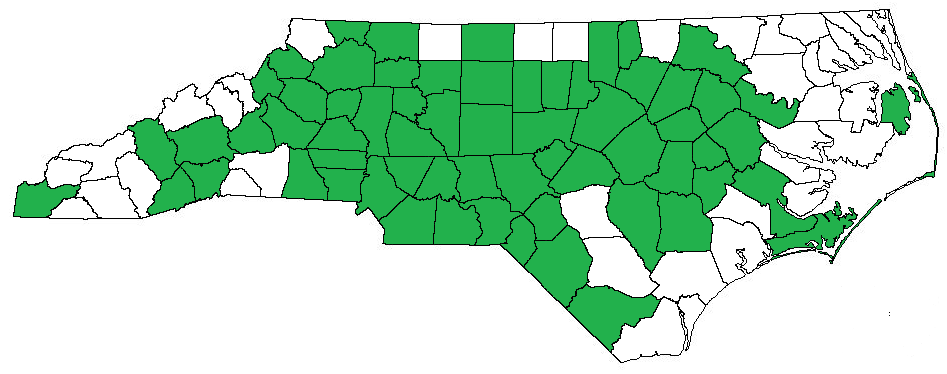
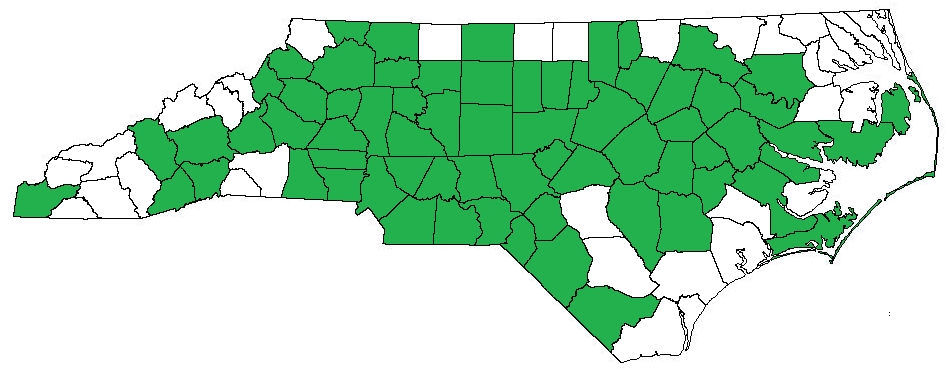
bbq trip 12/18/22

Changed region(s): [[0.7962, 0.3235, 0.9493, 0.5], [0.7656, 0.1471, 0.8574, 0.2941]]

diff --git a/bbq/index.html b/bbq/index.html
@@ -58,10 +58,10 @@
 <br>
 <center>
 	<h2>Current County Counter</h2>
-	<h3><span style="color:red">64</span> / 100</h3>
-	<h3>87 different in-state BBQ joints</h3>
+	<h3><span style="color:red">67</span> / 100</h3>
+	<h3>90 different in-state BBQ joints</h3>
 	<h3>6 annual BBQ events</h3>
-	<p>(last updated 12/1/2022)</p>
+	<p>(last updated 12/18/2022)</p>
 </center>
 <br>
 
@@ -89,6 +89,16 @@
 <p><b>Avery County</b></p>
 <ul>
 	<li>Old Hampton Store &amp Barbeque - Linville - 6/25/2022 - <a href="bbq-pics.html#Hampton">pictures</a></li>
+</ul>
+<br>
+<p><b>Beaufort County</b></p>
+<ul>
+	<li>Old Town Country Kitchen (The Grill) - Bath - 12/18/2022 - <a href="bbq-pics.html#OldTown">pictures</a></li>
+</ul>
+<br>
+<p><b>Bertie County</b></p>
+<ul>
+	<li>Bunn's Barbecue - Windsor - 12/17/2022 - <a href="bbq-pics.html#Bunns">pictures</a></li>
 </ul>
 <br>
 <p><b>Buncombe County</b></p>
@@ -243,6 +253,11 @@
 <p><b>Hoke County</b></p>
 <ul>
 	<li>Virgil's Drive-In - Raeford - 8/28/2022 - <a href="bbq-pics.html#Virgils">pictures</a></li>
+</ul>
+<br>
+<p><b>Hyde County</b></p>
+<ul>
+	<li>Martelle's Feed House - Englehard - 12/17/2022 - <i><span class="ncbsbbq">True 'Cue NC</span></i> - <a href="bbq-pics.html#Martelle">pictures</a></li>
 </ul>
 <br>
 <p><b>Iredell County</b></p>
@@ -553,6 +568,9 @@
 
 <p>I took a brief lull from 'cue for most of September, but jumped right back into the fire in October, going to two events in the second weekend of the month (I also had some good South Carolina 'cue from the Greenville location of Henry's Smokehouse, which had some solid pork.  The next weekend, I really got things cooking with a stop at Kinghtdale's Oak and Smoke festival, a bluegrass event featuring meat from Redneck BBQ Lab and beer from Oak City Brewing Company.  The following day, we went to a similar event, a public celebration of Tar Banks Brewing's 5th Anniversary.  The meat was catered by Mr. Curley's Que Crew by Andy and Tricia Harrison, a local barbeque team which competes for state championships, and Carolina Ocean Drive radio was playing selections of beach music from live on site.  Tar Banks also unveiled two new beers, a farmhouse ale called Ouverture, and a Scottish Ale called Boat On the Water.</p>
 
+<p>On the weekend before Christmas, I did my last big barbecue bananza of 2022.  Having started the year with a mission of consuming an ungodly proportion of pork, it only felt right to end it that way, too.  I started the weekend off with a visit to Rocky Mount's <a href="other-pics.html#BBQPark">Barbecue Park</a>, the historic home of Bob Melton's BBQ from its opening in 1920 until it was destroyed by Hurricane Floyd in 1999.  There, I got some good views of the Tar River, as well as a good lesson on the development of pulled pork in the state, and especially the impactful role of Rocky Mount.  Unfortunately, all of the city's historic pork pallaces have since closed.  Afterwards, I christened the day with a plate of Bunn's Barbecue -- a venerated hut which is certainly in the running for the most popular electric-cooked 'cue.  Randy Russell, current co-owner, graciously let me in and fed me despite arriving a half-an-hour before opening thanks to some malfeasance on the behalf of Google.  From there, I stopped in at the Somerset Place and Pettigrew State Park, as well as the Alligator National Wildlife Refuge, where I managed to spot a small bear family, as well as several birds.  Sandwiched between those stops was a futile attempt to get some 'cue in Tyrell County for lunch -- sadly, the only two places serving 'cue in the county that I knew of were unexpectedly closed.  Instead, I snacked some in Manteo before getting dinner at Martelle's Feed House in Englehard.</p>
+
+<p>After camping for the night at the Gull Rock Game Land, I woke up early to catch the sunrise over Lake Mattamuskeet; set up at observation point located near the middle of the lake just off NC 94, I shivered through the strong winds and dark for nearly 2 hours before backtracking slightly to the Mattamuskeet Wildlife Refuge, where I talked extensively with Greg, a very friendly volunteer at the visitor's center, before a short foray into one of the park's scenic drives.  At one point, I parked and exited my car to take a picture, and heard a hissing noise coming from one of my tires.  At that time, I high-tailed it back to the visitor's center, where I determined the cut only let air out when the cut was along the road.  Reckoning that it was a slow week and that it would be better to change a tire on the pavement than the muddy gravel roads which dotted the park, I hiked around some before getting back on the road.  This proved rather foolhardy: somewhere between NC 94 and Swanquarter (right about <a href="https://www.google.com/maps/place/35%C2%B025'59.6%22N+76%C2%B017'49.6%22W/@35.4332336,-76.2992933,17z/data=!3m1!4b1!4m5!3m4!1s0x0:0x564f45feace1b9bd!8m2!3d35.4332336!4d-76.2971046">here</a>, to be precise), I heard that telltale flat-tire-whine.  My first time changing a tire on the side of the road (or, more accurately, <a href="https://www.google.com/maps/@35.4328943,-76.2978624,3a,75y,256.14h,72.93t/data=!3m6!1e1!3m4!1sI-IkGm9LIwp-zykqH_KbfA!2e0!7i16384!8i8192">in the road</a>, thanks to the <i>very</i> slim shoulder) was an exciting one: it took nearly an hour of struggling thanks to a shorn bolt, meaning I spent the rest of the trip driving one lug nut short.  To make up for the nut-busting work, I treated myself to a slice of chocolate cake at Bath's Old Town Country Kitchen.  After a lengthy hike at Goose Creek State Park, I called it a trip and limped back on to Raleigh.</p>
 
 <center>- - - - - - - - - - -</center>
 

diff --git a/bbq/bbq-pics.html b/bbq/bbq-pics.html
@@ -113,6 +113,61 @@
 	src="https://www.youtube.com/embed/ByiADNCPhyY">
 </iframe></center>
 
+<br>
+<p><b>Beaufort County</b></p>
+<p>Old Town Country Kitchen (The Grill) - Bath</p>
+<p><a id="OldTown"></p>
+<center><img id="image193" img-src="https://s3.us-east-1.wasabisys.com/cwclaib-website/NC-State-Page/bbq/Old Town Country Kitchen - Bath/20221218_130525.jpg" width="800"></img></center>
+<center><button type="button"
+        onclick="show( image193, this )" id="btnID">
+        Show Image
+</button></center>
+<center><img id="image190" img-src="https://s3.us-east-1.wasabisys.com/cwclaib-website/NC-State-Page/bbq/Old Town Country Kitchen - Bath/20221218_122704.jpg" width="800"></img></center>
+<center><button type="button"
+        onclick="show( image190, this )" id="btnID">
+        Show Image
+</button></center>
+<center><img id="image191" img-src="https://s3.us-east-1.wasabisys.com/cwclaib-website/NC-State-Page/bbq/Old Town Country Kitchen - Bath/20221218_124139.jpg" width="800"></img></center>
+<center><button type="button"
+        onclick="show( image191, this )" id="btnID">
+        Show Image
+</button></center>
+<center><img id="image192" img-src="https://s3.us-east-1.wasabisys.com/cwclaib-website/NC-State-Page/bbq/Old Town Country Kitchen - Bath/20221218_125656.jpg" width="800"></img></center>
+<center><button type="button"
+        onclick="show( image192, this )" id="btnID">
+        Show Image
+</button></center>
+
+<br>
+<p><b>Bertie County</b></p>
+<p>Bunn's Barbecue - Windsor</p>
+<p><a id="Bunns"></p>
+<center><img id="image194" img-src="https://s3.us-east-1.wasabisys.com/cwclaib-website/NC-State-Page/bbq/Bunns, Windsor/20221217_091135.jpg" width="800"></img></center>
+<center><button type="button"
+        onclick="show( image194, this )" id="btnID">
+        Show Image
+</button></center>
+<center><img id="image195" img-src="https://s3.us-east-1.wasabisys.com/cwclaib-website/NC-State-Page/bbq/Bunns, Windsor/20221217_093107.jpg" width="800"></img></center>
+<center><button type="button"
+        onclick="show( image195, this )" id="btnID">
+        Show Image
+</button></center>
+<center><img id="image197" img-src="https://s3.us-east-1.wasabisys.com/cwclaib-website/NC-State-Page/bbq/Bunns, Windsor/20221217_094105.jpg" width="800"></img></center>
+<center><button type="button"
+        onclick="show( image197, this )" id="btnID">
+        Show Image
+</button></center>
+<center><img id="image196" img-src="https://s3.us-east-1.wasabisys.com/cwclaib-website/NC-State-Page/bbq/Bunns, Windsor/20221217_095229.jpg" width="800"></img></center>
+<center><button type="button"
+        onclick="show( image196, this )" id="btnID">
+        Show Image
+</button></center>
+<center><img id="image198" img-src="https://s3.us-east-1.wasabisys.com/cwclaib-website/NC-State-Page/bbq/Bunns, Windsor/20221217_095318.jpg" width="800"></img></center>
+<center><button type="button"
+        onclick="show( image198, this )" id="btnID">
+        Show Image
+</button></center>
+
 
 
 
@@ -689,6 +744,31 @@
 <center><img id="image151" img-src="https://s3.us-east-1.wasabisys.com/cwclaib-website/NC-State-Page/bbq/Virgils Drive-In, Raeford/20220828_150354.jpg" width="800"></img></center>
 <center><button type="button"
         onclick="show( image151, this )" id="btnID">
+        Show Image
+</button></center>
+
+<br>
+<p><b>Hyde County</b></p>
+<p>Martelle's Feed House - Englehard</p>
+<p><a id="Martelle"></p>
+<center><img id="image186" img-src="https://s3.us-east-1.wasabisys.com/cwclaib-website/NC-State-Page/bbq/Martelle's Feed House, Engelhard/20221217_174345.jpg" width="800"></img></center>
+<center><button type="button"
+        onclick="show( image186, this )" id="btnID">
+        Show Image
+</button></center>
+<center><img id="image187" img-src="https://s3.us-east-1.wasabisys.com/cwclaib-website/NC-State-Page/bbq/Martelle's Feed House, Engelhard/20221217_180000.jpg" width="800"></img></center>
+<center><button type="button"
+        onclick="show( image187, this )" id="btnID">
+        Show Image
+</button></center>
+<center><img id="image188" img-src="https://s3.us-east-1.wasabisys.com/cwclaib-website/NC-State-Page/bbq/Martelle's Feed House, Engelhard/20221217_180411.jpg" width="800"></img></center>
+<center><button type="button"
+        onclick="show( image188, this )" id="btnID">
+        Show Image
+</button></center>
+<center><img id="image189" img-src="https://s3.us-east-1.wasabisys.com/cwclaib-website/NC-State-Page/bbq/Martelle's Feed House, Engelhard/20221217_184723.jpg" width="800"></img></center>
+<center><button type="button"
+        onclick="show( image189, this )" id="btnID">
         Show Image
 </button></center>
 

diff --git a/bbq/other-pics.html b/bbq/other-pics.html
@@ -20,6 +20,52 @@
 
 <br>
 
+<h3>Barbecue Park - Rocky Mount</h3>
+<p><a id="BBQPark"></p>
+<center><img id="image14" img-src="https://s3.us-east-1.wasabisys.com/cwclaib-website/NC-State-Page/bbq/Barbecue Park, Rocky Mount/20221217_080242.jpg" width="800"></img></center>
+<center><button type="button"
+        onclick="show( image14, this )" id="btnID">
+        Show Image
+</button></center>
+<center><img id="image15" img-src="https://s3.us-east-1.wasabisys.com/cwclaib-website/NC-State-Page/bbq/Barbecue Park, Rocky Mount/20221217_080246.jpg" width="800"></img></center>
+<center><button type="button"
+        onclick="show( image15, this )" id="btnID">
+        Show Image
+</button></center>
+<center><img id="image17" img-src="https://s3.us-east-1.wasabisys.com/cwclaib-website/NC-State-Page/bbq/Barbecue Park, Rocky Mount/20221217_080646.jpg" width="800"></img></center>
+<center><button type="button"
+        onclick="show( image17, this )" id="btnID">
+        Show Image
+</button></center>
+<center><img id="image19" img-src="https://s3.us-east-1.wasabisys.com/cwclaib-website/NC-State-Page/bbq/Barbecue Park, Rocky Mount/20221217_080752.jpg" width="800"></img></center>
+<center><button type="button"
+        onclick="show( image19, this )" id="btnID">
+        Show Image
+</button></center>
+<center><img id="image21" img-src="https://s3.us-east-1.wasabisys.com/cwclaib-website/NC-State-Page/bbq/Barbecue Park, Rocky Mount/20221217_081004.jpg" width="800"></img></center>
+<center><button type="button"
+        onclick="show( image21, this )" id="btnID">
+        Show Image
+</button></center>
+<center><img id="image16" img-src="https://s3.us-east-1.wasabisys.com/cwclaib-website/NC-State-Page/bbq/Barbecue Park, Rocky Mount/20221217_080308.jpg" width="800"></img></center>
+<center><button type="button"
+        onclick="show( image16, this )" id="btnID">
+        Show Image
+</button></center>
+<center><img id="image18" img-src="https://s3.us-east-1.wasabisys.com/cwclaib-website/NC-State-Page/bbq/Barbecue Park, Rocky Mount/20221217_080656.jpg" width="800"></img></center>
+<center><button type="button"
+        onclick="show( image18, this )" id="btnID">
+        Show Image
+</button></center>
+<center><img id="image20" img-src="https://s3.us-east-1.wasabisys.com/cwclaib-website/NC-State-Page/bbq/Barbecue Park, Rocky Mount/20221217_080810.jpg" width="800"></img></center>
+<center><button type="button"
+        onclick="show( image20, this )" id="btnID">
+        Show Image
+</button></center>
+
+<br>
+
+
 <h3>Betsey's Ole Country Store - Collettsville</h3>
 <p><a id="Betseys"></p>
 <center><img id="image8" img-src="https://s3.us-east-1.wasabisys.com/cwclaib-website/NC-State-Page/bbq/Betsey's Ole Country Store, Collettsville/20220507_113130.jpg" width="800"></img></center>
